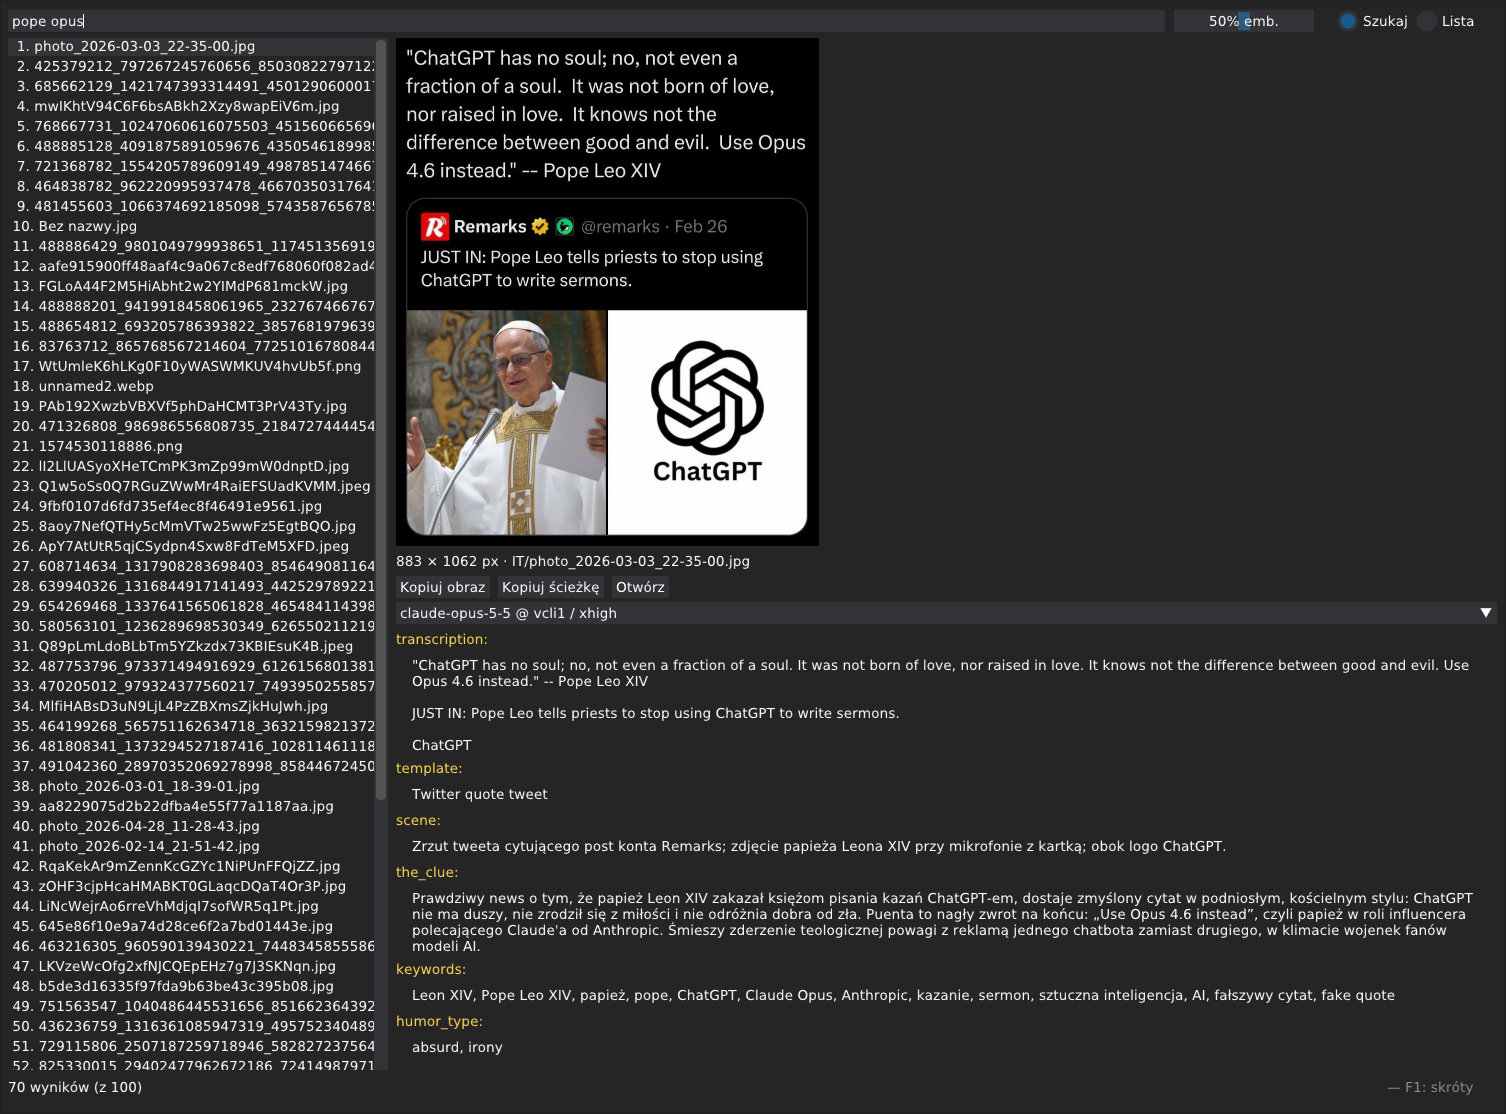
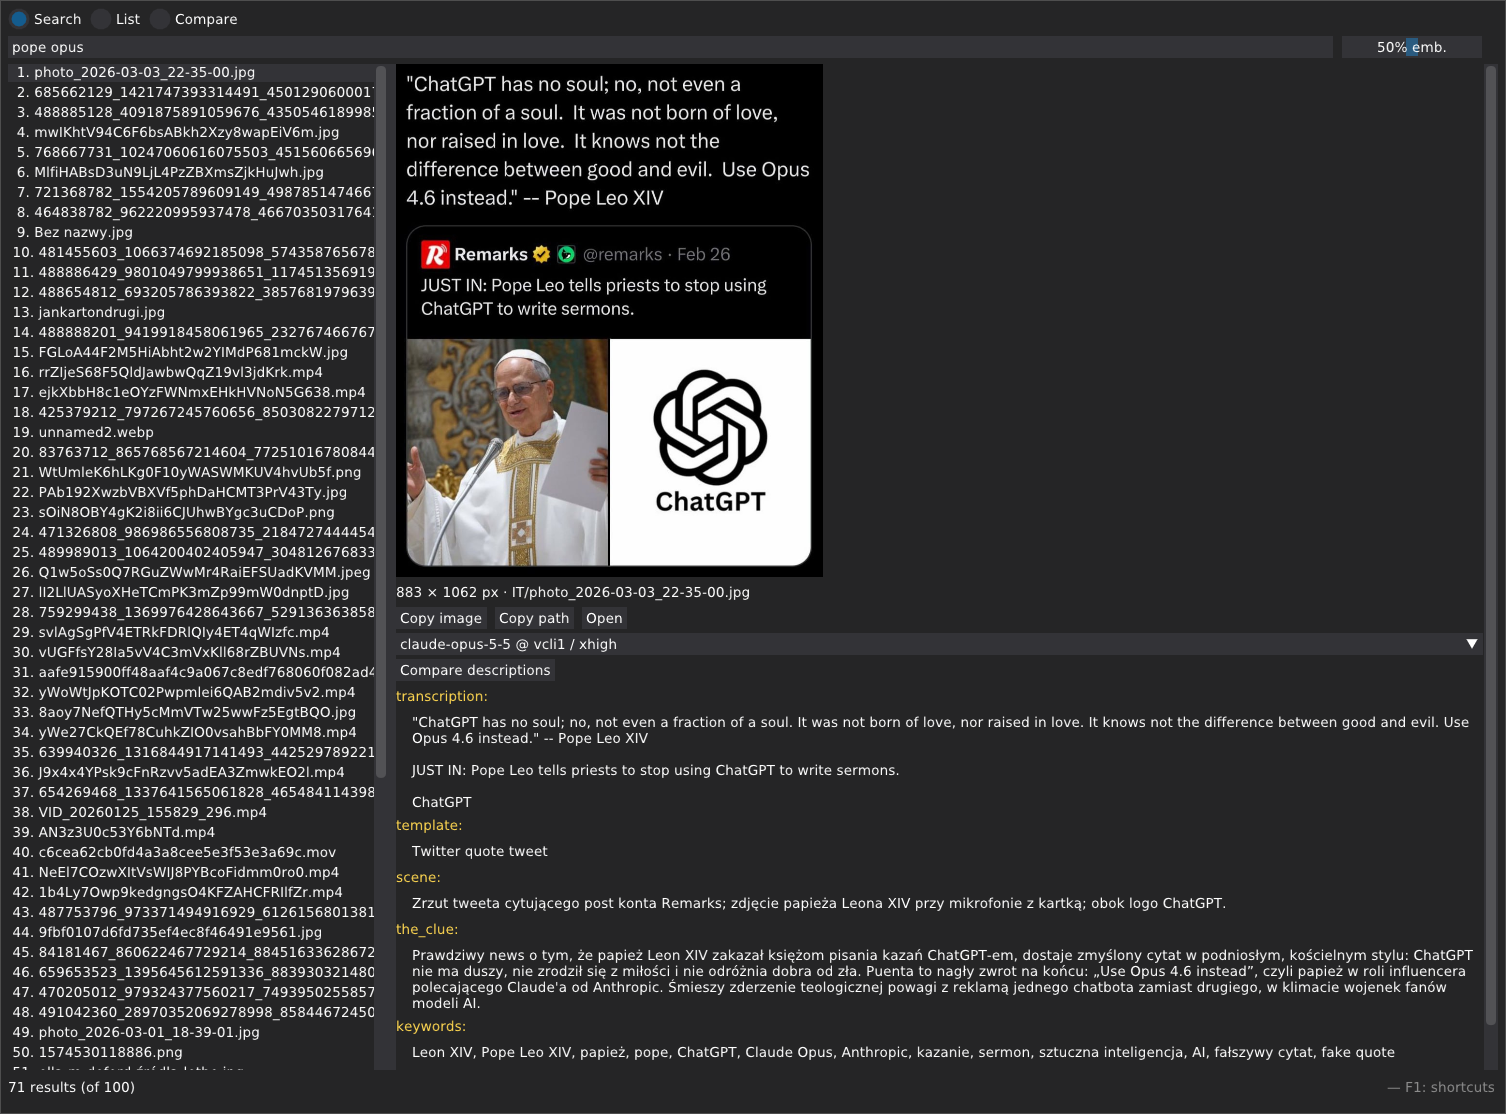
docs: Show English GUI in screenshots and document interface language

diff --git a/README.md b/README.md
@@ -187,6 +187,8 @@ CLI search prints one matching path per line. `-n` / `--top` changes the number
 of results. `--show` opens them in an installed viewer (`imv`, `feh`, `nsxiv` or
 `loupe`). Try describing the punchline or intended reaction when a literal scene
 description does not find the meme.
+The GUI is in English by default; switch to Polish with `[gui] language = "pl"`
+in the config or `uv run memy gui --language pl`.
 
 Every command accepts `--config FILE` after its name; the default is
 `config.toml`. For example:
